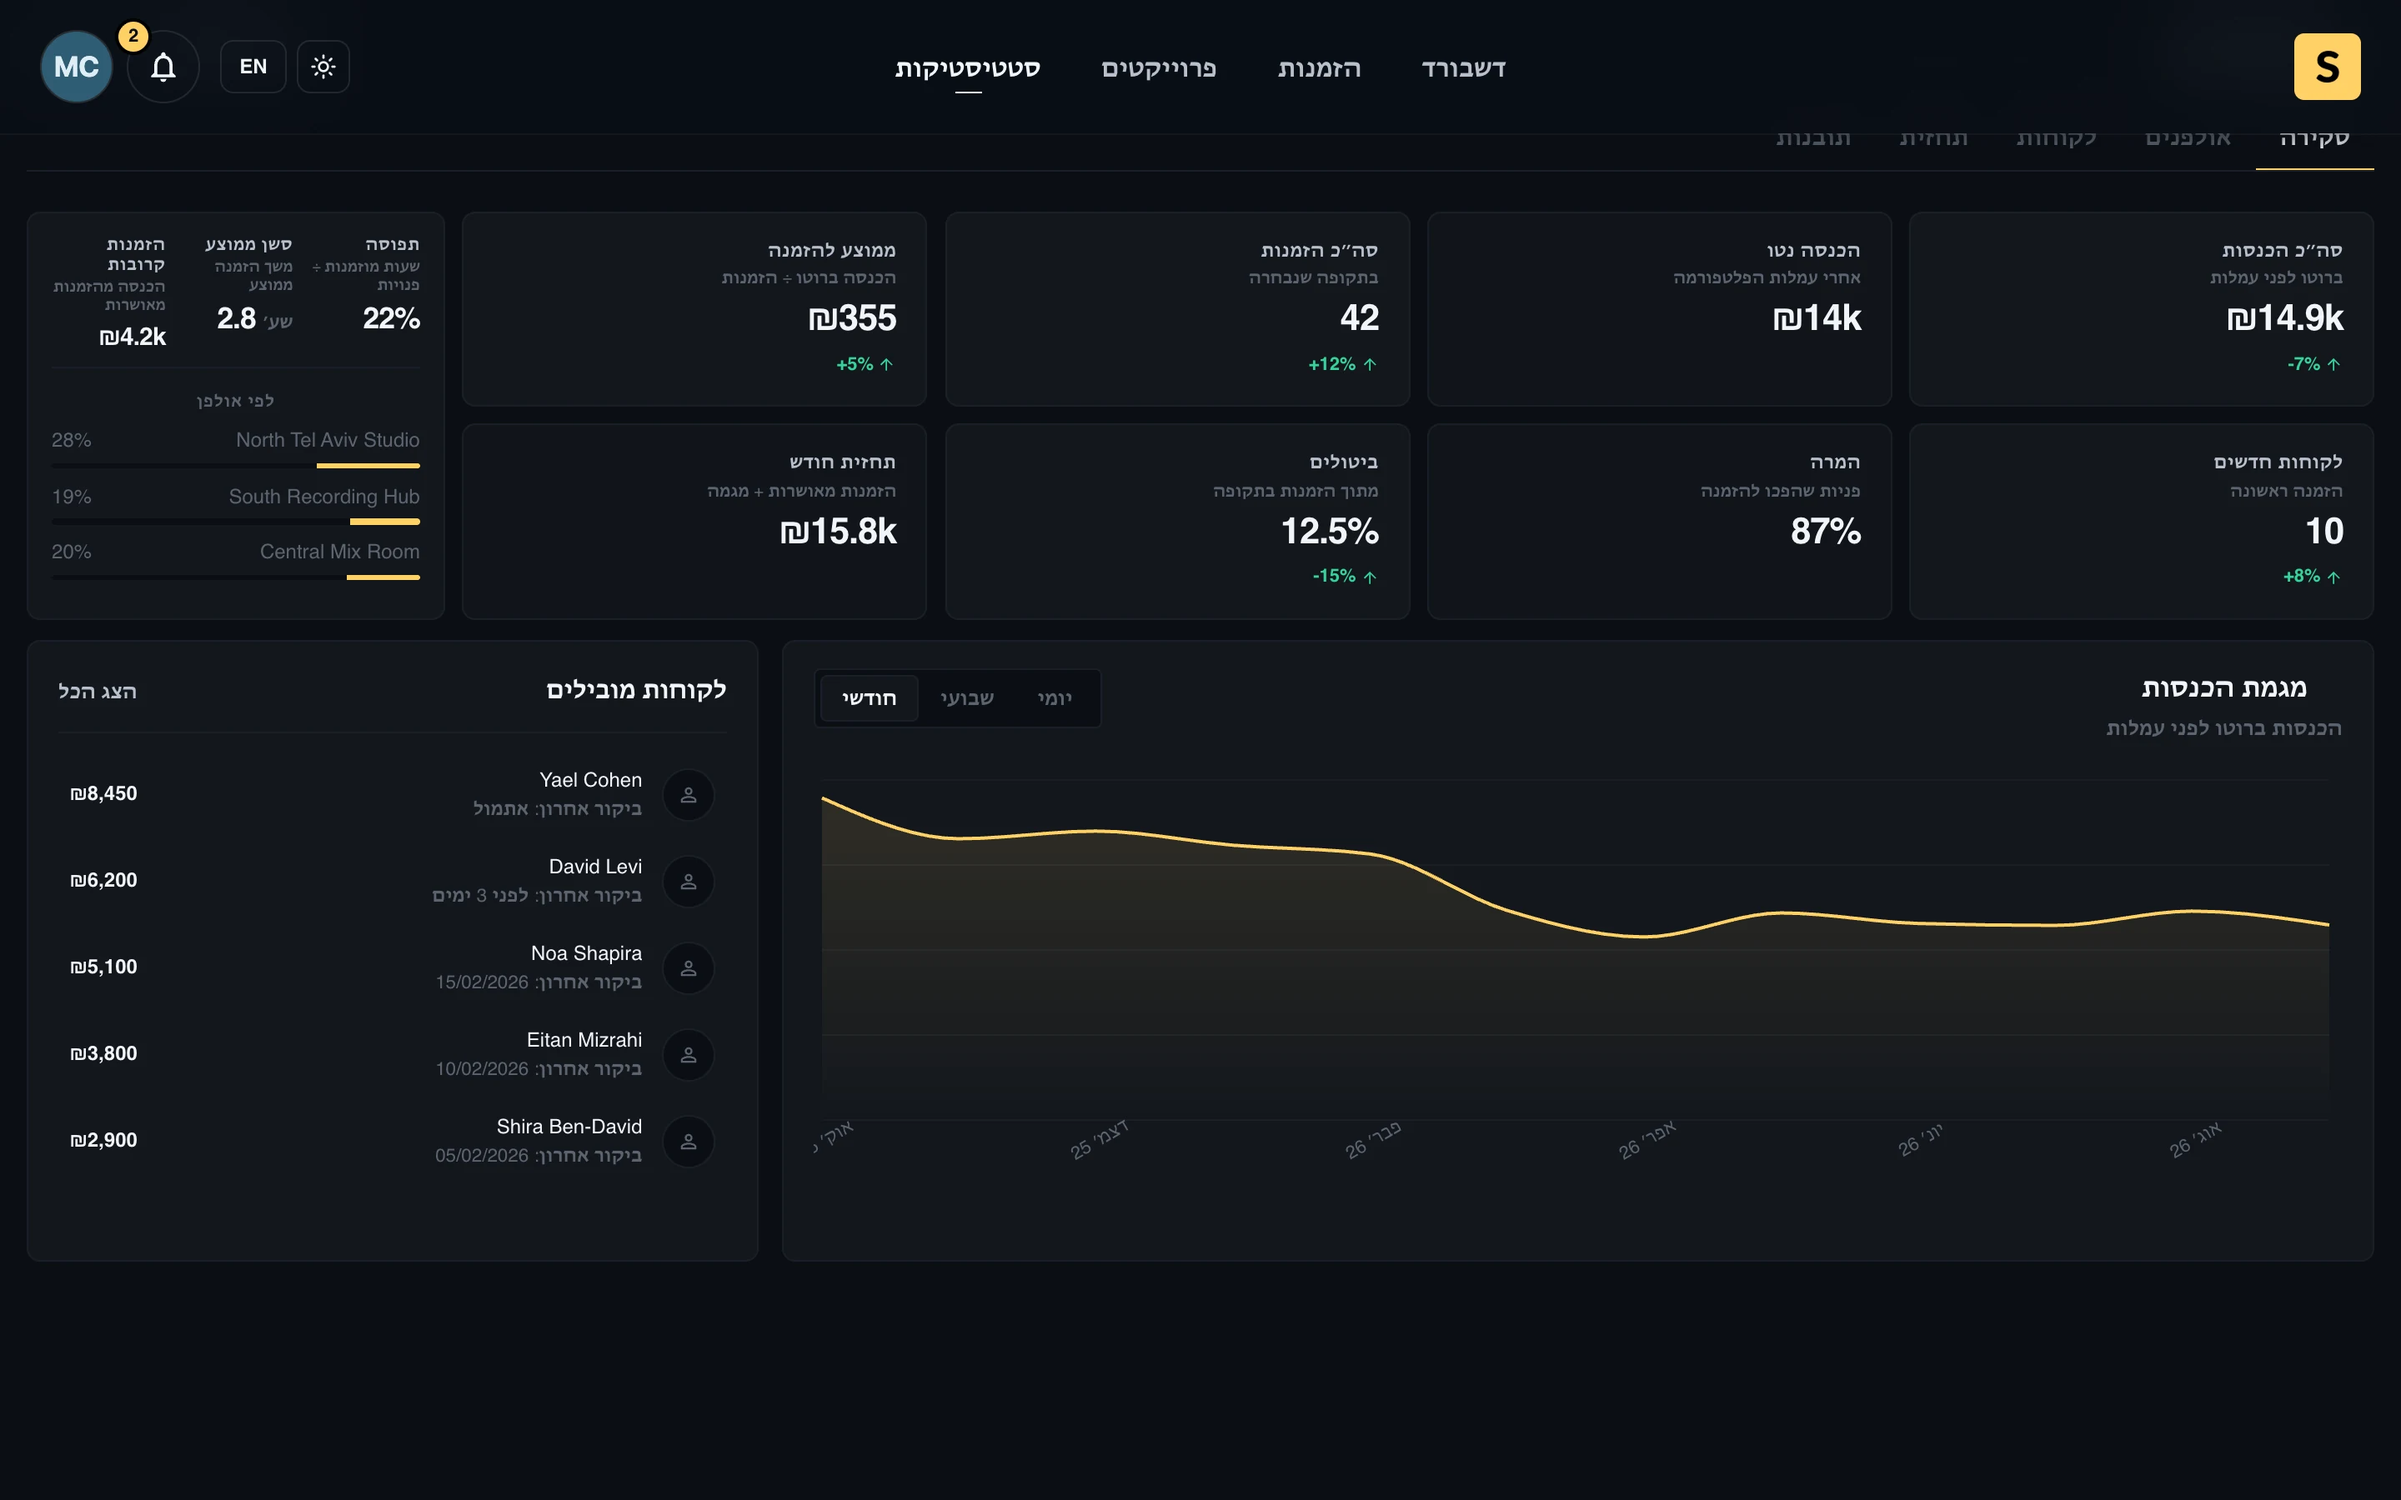
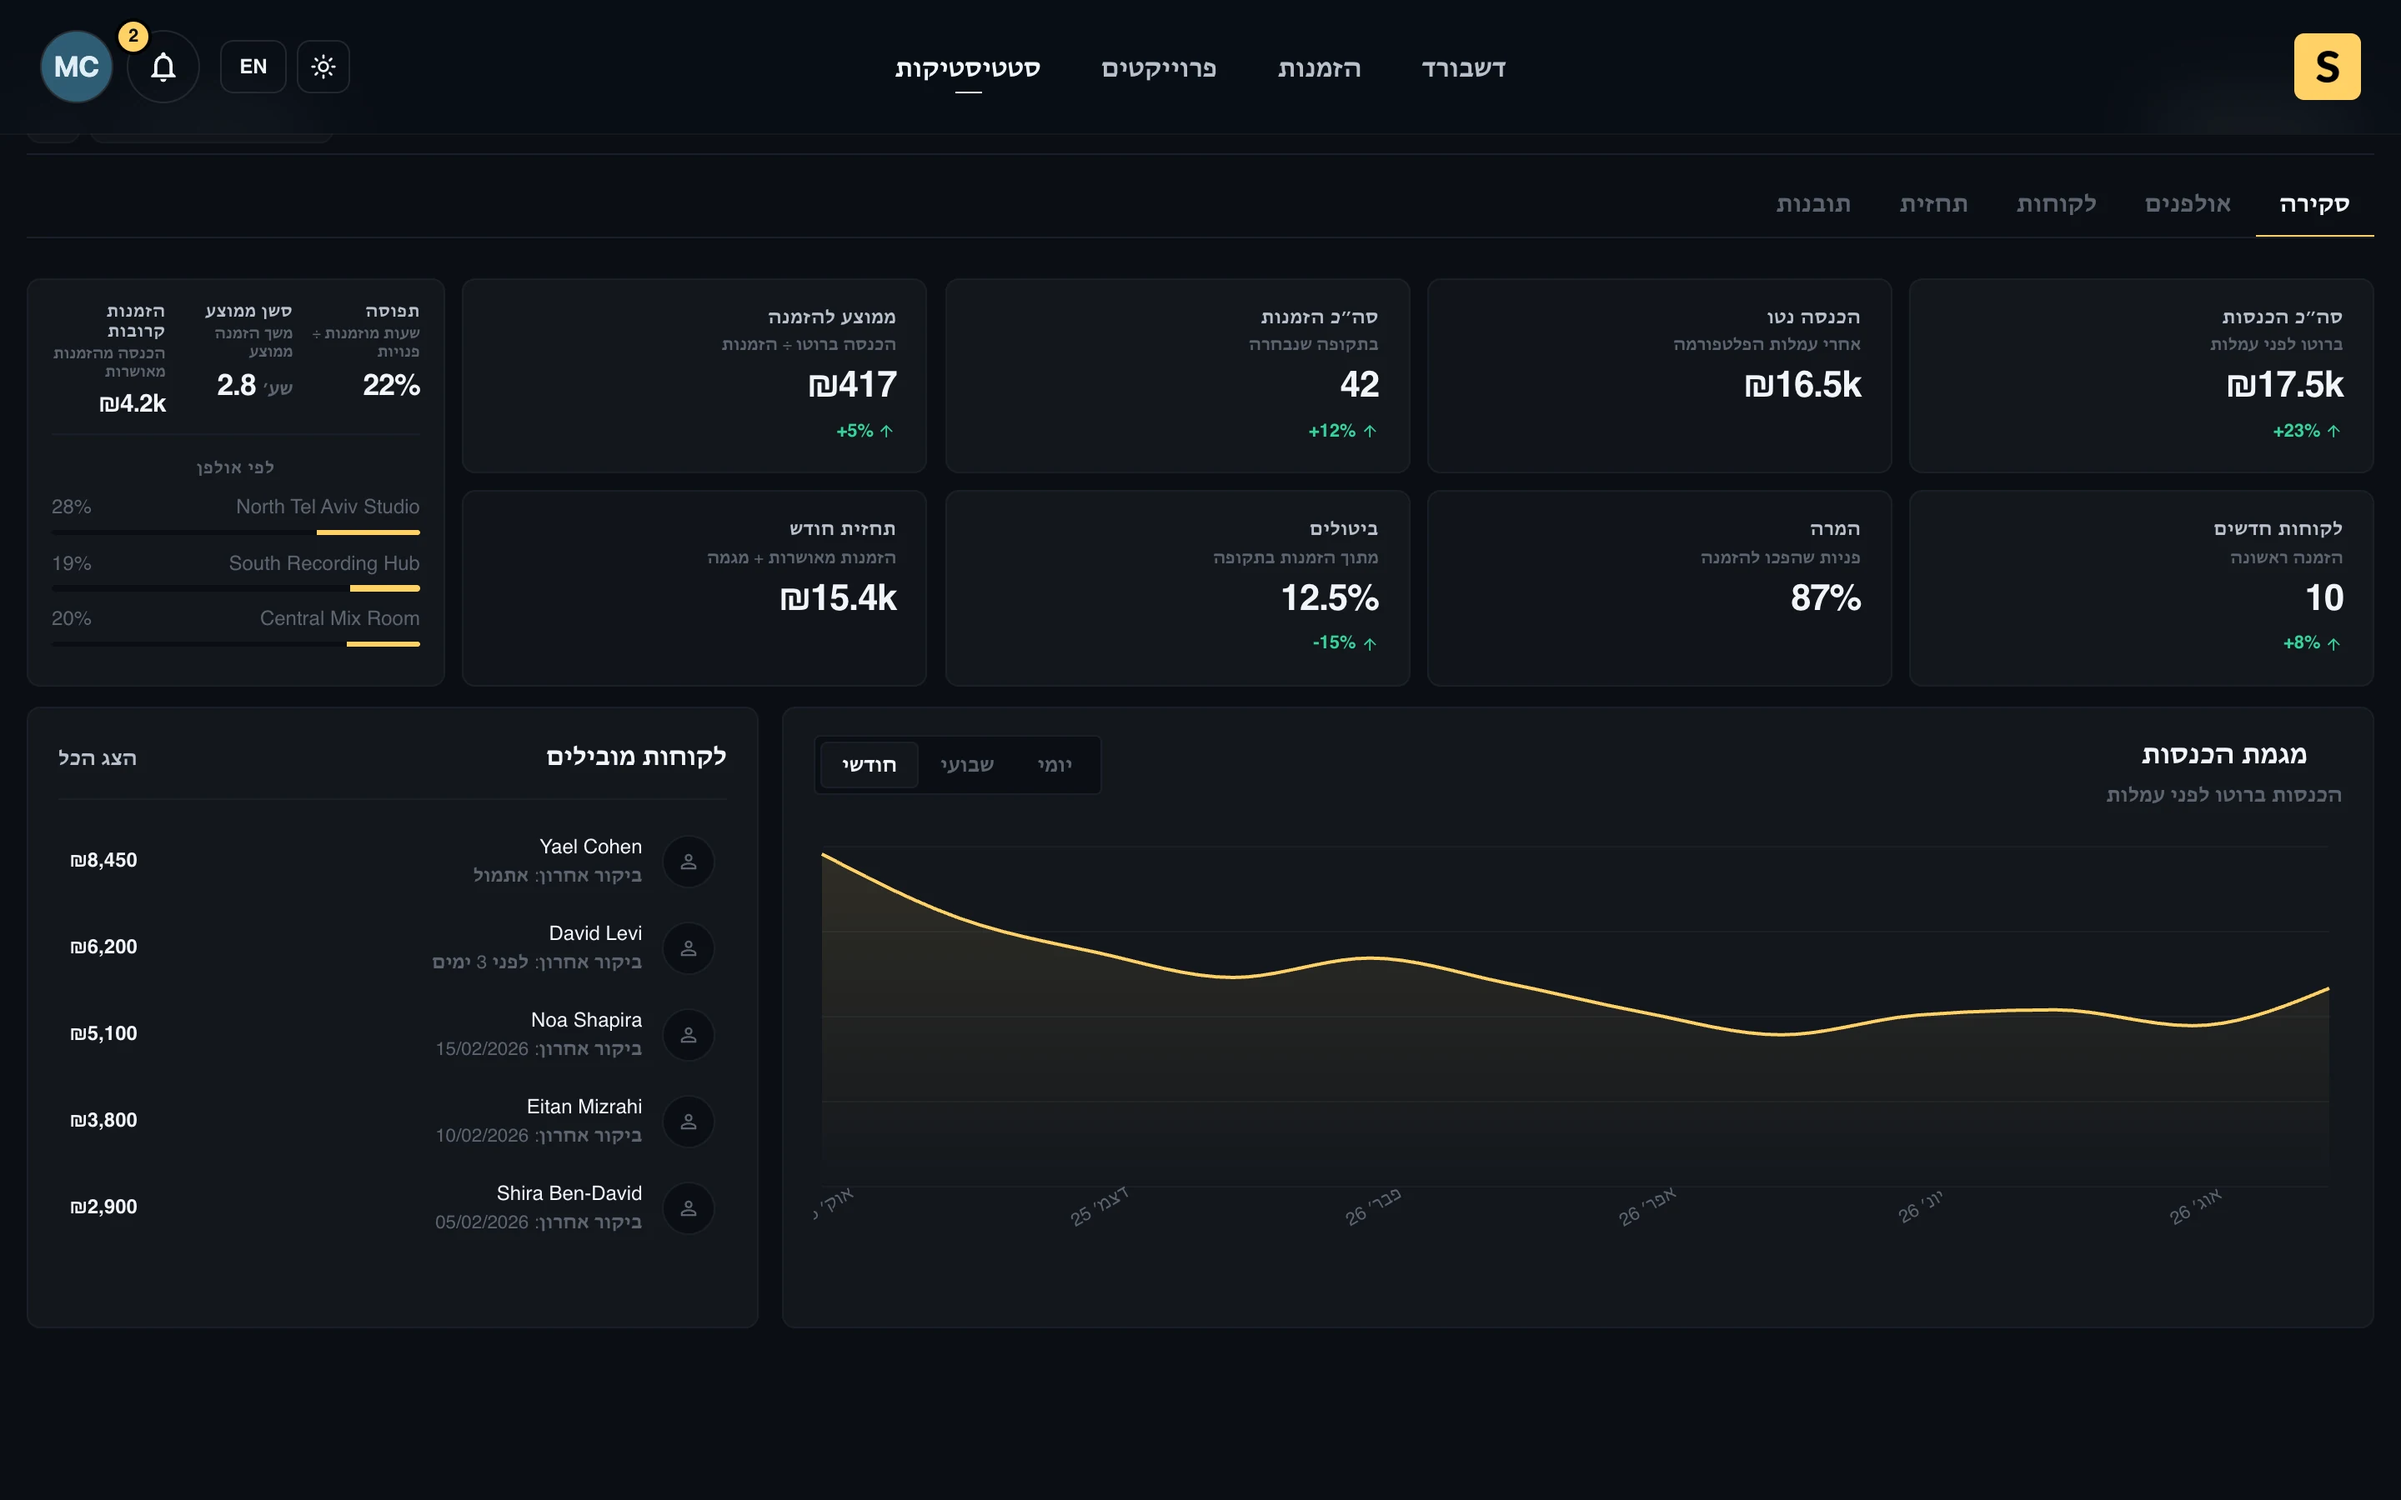
Nudge desktop stats capture up so the header stays in frame.

diff --git a/tools/app-store-screenshots/screenshots.config.ts b/tools/app-store-screenshots/screenshots.config.ts
@@ -362,7 +362,7 @@ const scenes: ScreenshotScene[] = [
     device: 'desktop-1440',
     template: 'minimal',
     textAlign: 'center',
-    actions: [{ type: 'scroll', y: 80 }],
+    actions: [{ type: 'scroll', y: 40 }],
     deviceTransform: { scale: 0.72, y: 100, shadow: true },
     capturePublish: {
       directory: 'public/images/features-generated',
